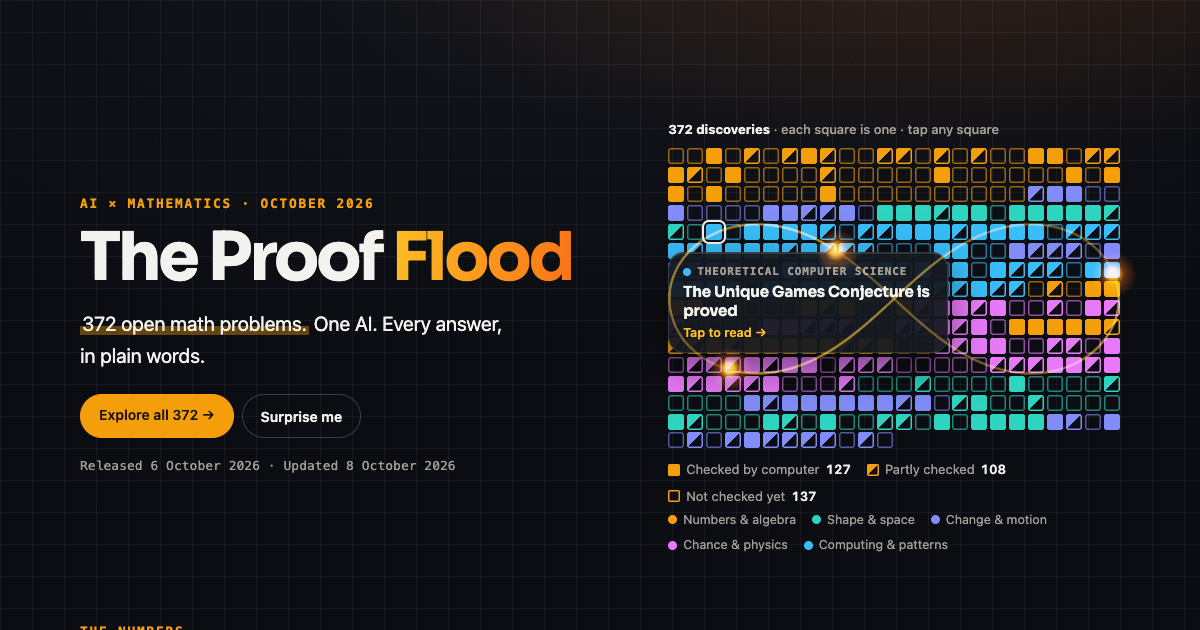
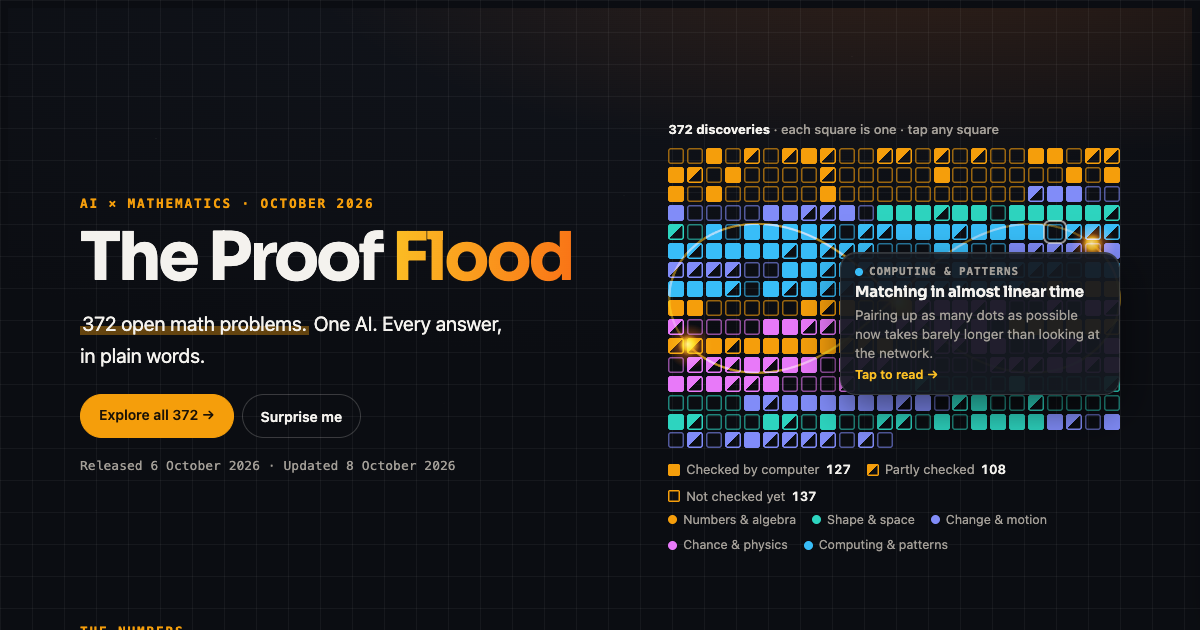
Novice-friendly hero preview, orbit under the card, no flash between pages

Changed region(s): [[0.555, 0.3317, 0.9558, 0.6937], [0.555, 0.0, 0.9558, 0.0302]]

diff --git a/articles/proof-flood/index.html b/articles/proof-flood/index.html
@@ -47,7 +47,8 @@ button{font:inherit;color:inherit;cursor:pointer}
 /* nav */
 @view-transition { navigation: auto; }
 ::view-transition-group(site-nav) { animation-duration: .35s; }
-::view-transition-old(root), ::view-transition-new(root) { animation-duration: .3s; }
+::view-transition-old(root), ::view-transition-new(root) { animation: none; mix-blend-mode: normal; }
+html { background: var(--bg); }
 @media (prefers-reduced-motion: reduce) { @view-transition { navigation: none; } }
 .fnav{view-transition-name:site-nav;position:fixed;z-index:30;top:calc(12px + env(safe-area-inset-top,0px));left:50%;transform:translateX(-50%);width:min(calc(100% - 24px),1080px);height:60px;display:flex;align-items:center;gap:6px;padding:0 8px 0 16px;border-radius:999px;
   background:rgba(20,24,32,.66);backdrop-filter:blur(20px) saturate(140%);-webkit-backdrop-filter:blur(20px) saturate(140%);border:1px solid rgba(244,242,238,.1);box-shadow:inset 0 1px 0 rgba(244,242,238,.12),0 12px 40px rgba(0,0,0,.45);overflow:hidden}
@@ -99,6 +100,7 @@ section{padding-top:72px;display:grid;gap:22px;scroll-margin-top:96px}
 .qtip .f{font:600 11px/1.3 var(--f-mono);letter-spacing:.08em;text-transform:uppercase;color:var(--muted);display:flex;align-items:center;gap:6px}
 .qtip .f i{width:8px;height:8px;border-radius:50%}
 .qtip .h{font:650 15px/1.25 var(--f-display);color:var(--ink);letter-spacing:-.01em}
+.qtip .k{font:400 13.5px/1.4 var(--f-body);color:var(--muted)}
 .qtip .go{font:600 12.5px var(--f-body);color:var(--accent-text)}
 .legend span{display:inline-flex;gap:6px;align-items:center}
 .sw{width:12px;height:12px;border-radius:2px;background:var(--accent);display:inline-block}
@@ -350,7 +352,6 @@ abbr.g{text-decoration:underline dotted var(--accent);text-underline-offset:3px;
 <div class="wrap">
 
 <header class="hero" id="top">
-  <canvas id="orbit" aria-hidden="true"></canvas>
   <div>
     <div class="eyebrow" style="margin-bottom:14px">AI × mathematics · October 2026</div>
     <h1>The Proof <span class="grad">Flood</span></h1>
@@ -361,6 +362,7 @@ abbr.g{text-decoration:underline dotted var(--accent);text-underline-offset:3px;
   <div>
     <div class="qwrap">
       <div class="qcap"><b>372 discoveries</b> · each square is one · tap any square</div>
+      <canvas id="orbit" aria-hidden="true"></canvas>
       <div class="qed" id="qed" aria-label="372 squares, one per discovery. Tap one to open it."></div>
       <div class="qtip" id="qtip" hidden></div>
     </div>
@@ -893,9 +895,10 @@ const esc=s=>String(s??"").replace(/[&<>"]/g,c=>({"&":"&amp;","<":"&lt;",">":"&g
 
 /* hero grid preview: a card that tours the famous squares, and follows the pointer */
 (()=>{const q=$("#qed"),tip=$("#qtip"),wrap=tip.parentElement,sq=[...q.children];let hot=null,tour=null,k=0;
- const famous=[...A.keys()].sort((x,y)=>A[y].fm-A[x].fm||A[y].r-A[x].r).slice(0,12);
+ // Start with the ones anyone can follow: closest to everyday life first, then the famous ones.
+ const famous=[...A.keys()].sort((x,y)=>A[y].r-A[x].r||A[y].fm-A[x].fm).slice(0,12);
  function show(i){const s=sq[i],a=A[i];if(!s)return;hot&&hot.classList.remove("hot");hot=s;s.classList.add("hot");
-  tip.innerHTML=`<span class="f"><i style="background:${GC(a.G)}"></i>${esc(a.F)}</span><span class="h">${sup(a.h)}</span><span class="go">Tap to read →</span>`;tip.hidden=false;
+  tip.innerHTML=`<span class="f"><i style="background:${GC(a.G)}"></i>${GROUPS[a.G]}</span><span class="h">${sup(a.h)}</span><span class="k">${sup(a.kd)}</span><span class="go">Tap to read →</span>`;tip.hidden=false;
   const r=s.getBoundingClientRect(),w=wrap.getBoundingClientRect(),tw=tip.offsetWidth,th=tip.offsetHeight;
   let x=r.left-w.left+r.width/2-tw/2,y=r.top-w.top-th-12;if(y<34)y=r.bottom-w.top+12;x=Math.max(0,Math.min(x,w.width-tw));tip.style.left=x+"px";tip.style.top=y+"px"}
  const still=matchMedia("(prefers-reduced-motion: reduce)").matches;

diff --git a/app/articles/route.ts b/app/articles/route.ts
@@ -39,7 +39,7 @@ export async function GET() {
 <link rel="preconnect" href="https://fonts.googleapis.com"><link rel="stylesheet" href="https://fonts.googleapis.com/css2?family=Sora:wght@400..800&display=swap">
 <style>
 *{box-sizing:border-box}
-@view-transition { navigation: auto; }::view-transition-group(site-nav) { animation-duration: .35s; }::view-transition-old(root), ::view-transition-new(root) { animation-duration: .3s; }@media (prefers-reduced-motion: reduce) { @view-transition { navigation: none; } }
+@view-transition { navigation: auto; }::view-transition-group(site-nav) { animation-duration: .35s; }::view-transition-old(root), ::view-transition-new(root) { animation: none; mix-blend-mode: normal; }html { background: var(--bg); }@media (prefers-reduced-motion: reduce) { @view-transition { navigation: none; } }
 body{margin:0;background:radial-gradient(ellipse 90% 60% at 78% -10%,rgba(249,115,22,.16),transparent 60%),var(--bg);color:var(--text);font:17px/1.6 ui-sans-serif,-apple-system,BlinkMacSystemFont,"Segoe UI",Helvetica,Arial,sans-serif;min-height:100vh}
 body::before{content:"";position:fixed;inset:0;pointer-events:none;background-image:linear-gradient(var(--grid-line) 1px,transparent 1px),linear-gradient(90deg,var(--grid-line) 1px,transparent 1px);background-size:32px 32px}
 .nav{view-transition-name:site-nav;position:fixed;top:calc(12px + env(safe-area-inset-top,0px));left:50%;transform:translateX(-50%);z-index:20;width:min(calc(100% - 24px),1040px);height:60px;display:flex;align-items:center;gap:12px;padding:0 8px 0 18px;border-radius:999px;background:color-mix(in srgb,var(--surface-solid) 70%,transparent);backdrop-filter:blur(20px) saturate(140%);-webkit-backdrop-filter:blur(20px) saturate(140%);border:1px solid var(--line);box-shadow:inset 0 1px 0 var(--glass-edge),0 12px 40px rgba(0,0,0,.42)}

diff --git a/design/home.html b/design/home.html
@@ -60,7 +60,8 @@ img, svg { display: block; }
 /* One continuous site: the nav stays put while pages crossfade (cross-document view transitions). */
 @view-transition { navigation: auto; }
 ::view-transition-group(site-nav) { animation-duration: .35s; }
-::view-transition-old(root), ::view-transition-new(root) { animation-duration: .3s; }
+::view-transition-old(root), ::view-transition-new(root) { animation: none; mix-blend-mode: normal; }
+html { background: var(--bg); }
 @media (prefers-reduced-motion: reduce) { @view-transition { navigation: none; } }
 
 .nav { view-transition-name: site-nav; position: fixed; top: calc(12px + env(safe-area-inset-top, 0px)); left: 50%; transform: translateX(-50%); z-index: var(--z-nav); width: min(calc(100% - 24px), 1040px); height: 60px; color: var(--text); border-radius: var(--radius-pill); background: color-mix(in srgb, var(--surface-solid) 58%, transparent); backdrop-filter: blur(20px) saturate(140%); -webkit-backdrop-filter: blur(20px) saturate(140%); border: 1px solid var(--line); box-shadow: inset 0 1px 0 var(--glass-edge), 0 12px 40px rgba(0,0,0,.42); transition: background-color var(--dur-slow) var(--ease-out), box-shadow var(--dur-slow); }

diff --git a/articles/_template/index.html b/articles/_template/index.html
@@ -16,7 +16,8 @@
 *{box-sizing:border-box}
 @view-transition { navigation: auto; }
 ::view-transition-group(site-nav) { animation-duration: .35s; }
-::view-transition-old(root), ::view-transition-new(root) { animation-duration: .3s; }
+::view-transition-old(root), ::view-transition-new(root) { animation: none; mix-blend-mode: normal; }
+html { background: var(--bg); }
 @media (prefers-reduced-motion: reduce) { @view-transition { navigation: none; } }
 
 body{margin:0;background:radial-gradient(ellipse 90% 60% at 78% -10%,rgba(249,115,22,.14),transparent 60%),var(--bg);color:var(--text);font:17px/1.6 ui-sans-serif,-apple-system,BlinkMacSystemFont,"Segoe UI",Helvetica,Arial,sans-serif}
